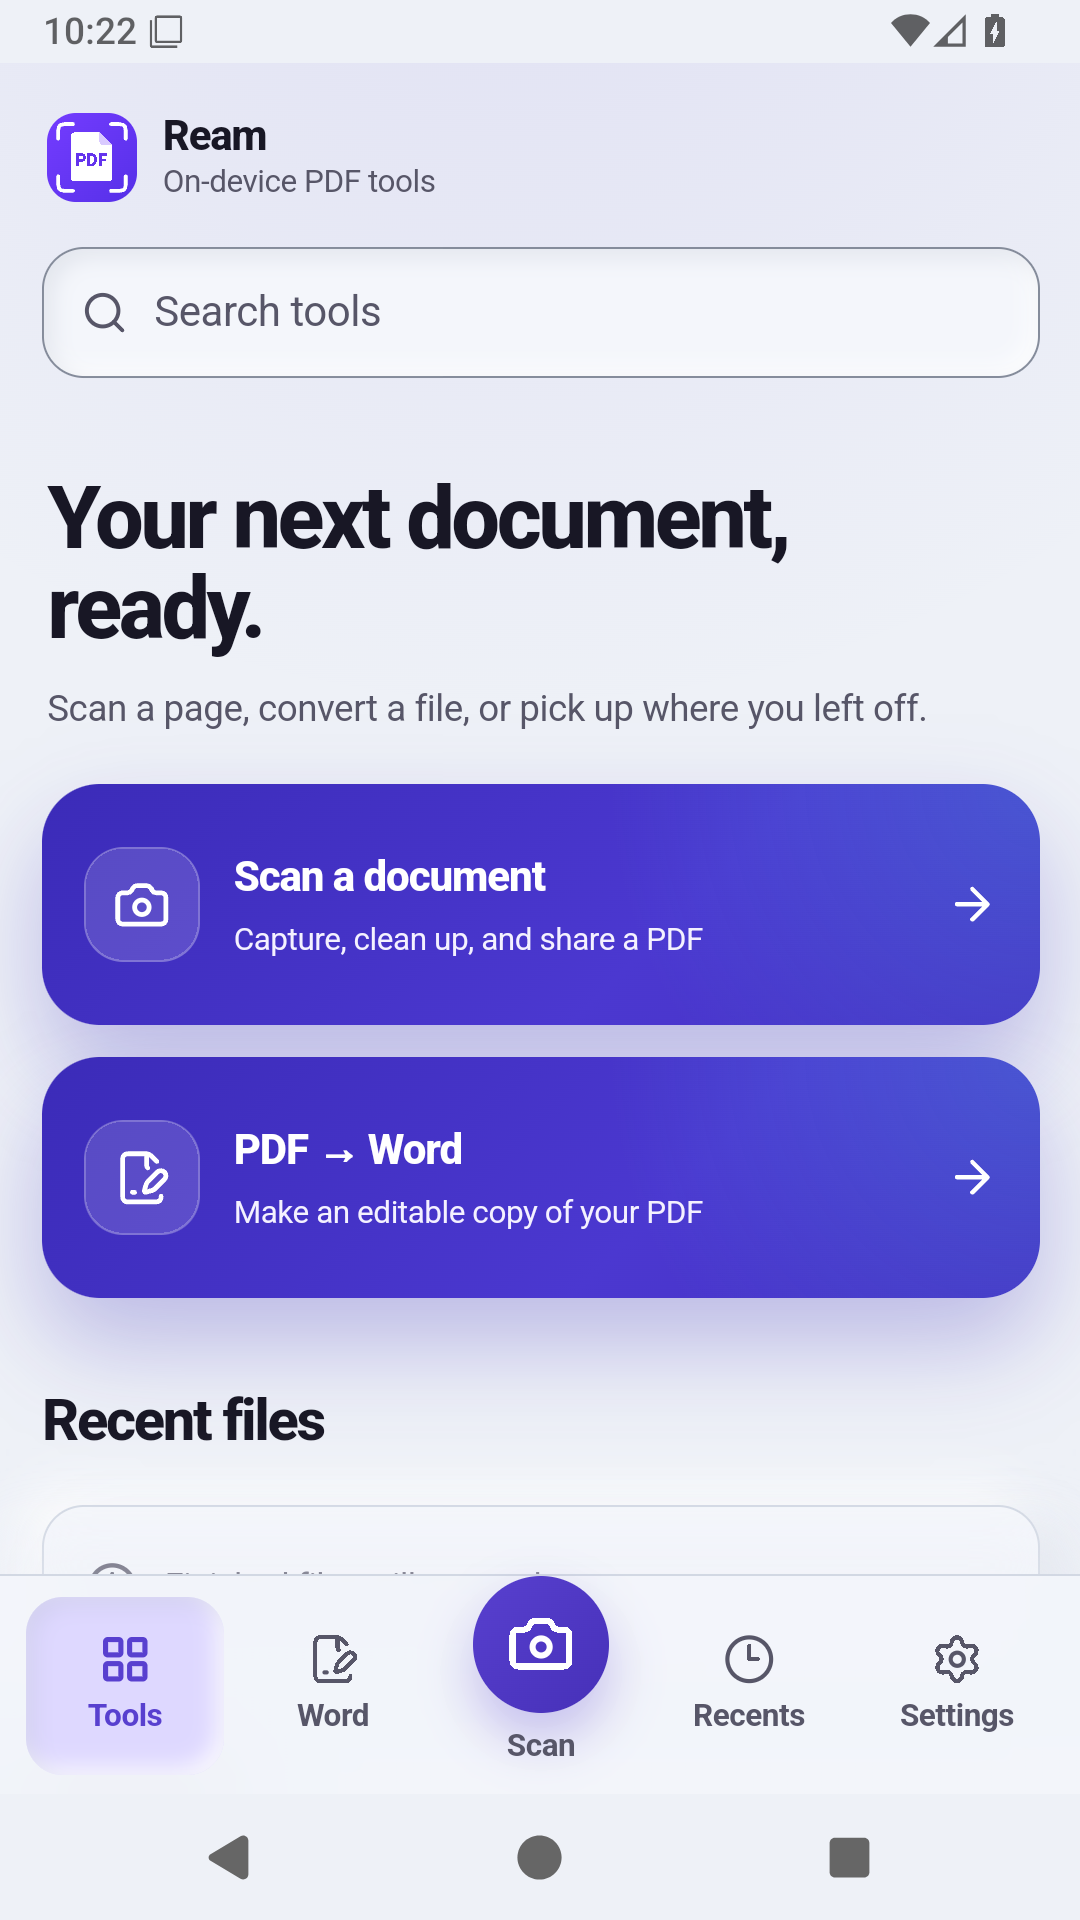
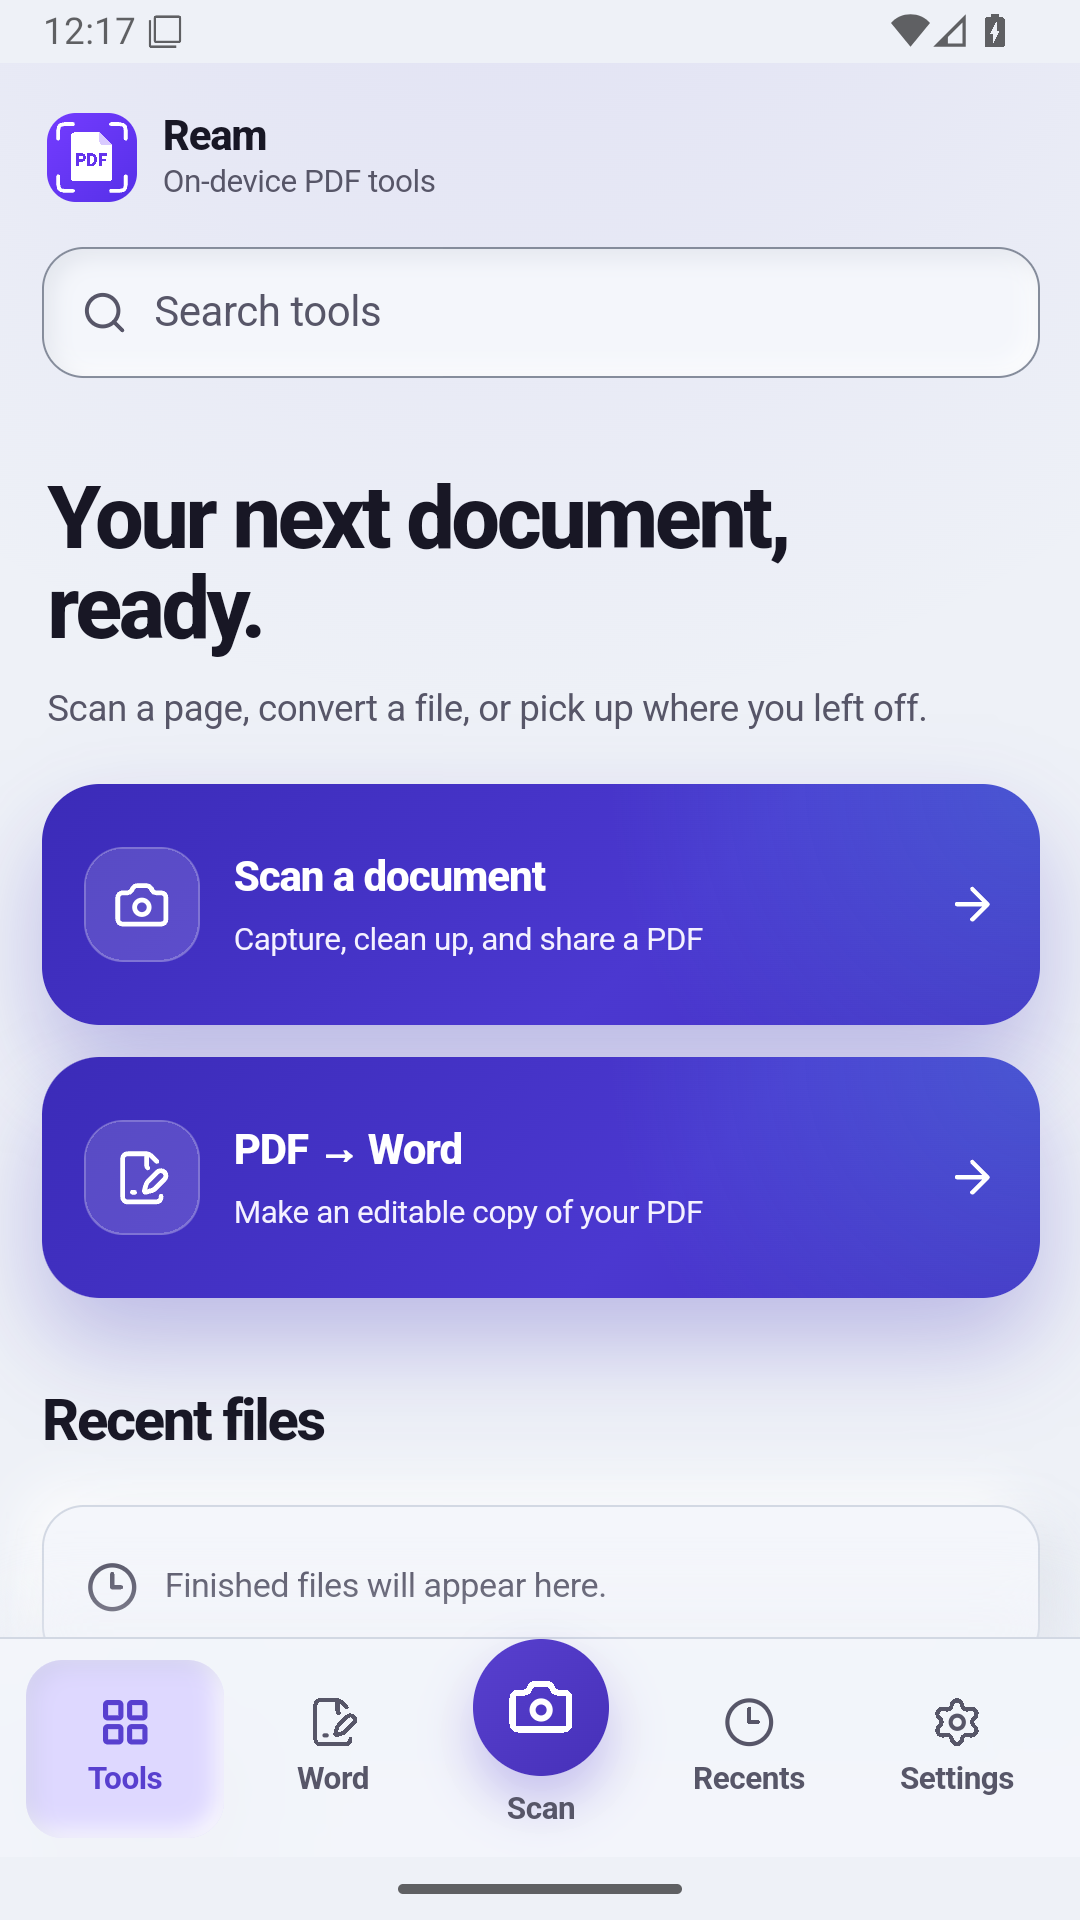
Promote verified Android store screenshots

diff --git a/android/app/src/androidTest/java/com/reampdf/mobile/StoreScreenshotInstrumentation.java b/android/app/src/androidTest/java/com/reampdf/mobile/StoreScreenshotInstrumentation.java
@@ -86,6 +86,17 @@ public class StoreScreenshotInstrumentation extends Instrumentation {
         until("Array.from(document.querySelectorAll('button')).some(b=>b.textContent.trim()==="+quoted+"&&!b.disabled)");
         js("Array.from(document.querySelectorAll('button')).find(b=>b.textContent.trim()==="+quoted+"&&!b.disabled).click()");
     }
+    private void untilVisualStateReady() throws Exception {
+        CountDownLatch latch=new CountDownLatch(1); AtomicReference<Boolean> found=new AtomicReference<>(false);
+        runOnMainSync(() -> {
+            WebView web=webView(activity.getWindow().getDecorView());
+            if(web==null){latch.countDown();return;}
+            found.set(true);
+            web.postVisualStateCallback(System.nanoTime(),new WebView.VisualStateCallback(){@Override public void onComplete(long requestId){latch.countDown();}});
+        });
+        assertTrue("WebView visual state timed out",latch.await(20,TimeUnit.SECONDS));
+        assertTrue("WebView was missing while waiting for a visual frame",found.get());
+    }
     private static String sha(byte[] data) throws Exception {
         StringBuilder out=new StringBuilder(); for(byte b:MessageDigest.getInstance("SHA-256").digest(data))out.append(String.format("%02x",b&255)); return out.toString();
     }
@@ -113,7 +124,7 @@ public class StoreScreenshotInstrumentation extends Instrumentation {
         return ads;
     }
     private void capture(String name) throws Exception {
-        until("document.fonts.status==='loaded'"); Thread.sleep(700);
+        until("document.fonts.status==='loaded'"); untilVisualStateReady();
         Bitmap bitmap=getUiAutomation().takeScreenshot();
         assertNotNull(bitmap);assertEquals(1080,bitmap.getWidth());assertEquals(1920,bitmap.getHeight());
         File file=new File(directory,name);assertFalse("Capture must not overwrite an image",file.exists());
@@ -182,13 +193,13 @@ public class StoreScreenshotInstrumentation extends Instrumentation {
         Intent launch=context.getPackageManager().getLaunchIntentForPackage(context.getPackageName());assertNotNull(launch);
         activity=startActivitySync(launch);
         try {
-            until("document.querySelector('.ps-home')");
+            until("!document.querySelector('#app-boot')&&(()=>{const e=document.querySelector('.ps-home');const r=e?.getBoundingClientRect();return r&&r.width>300&&r.height>500&&document.body.innerText.includes('Your next document, ready.')})()");
             capture("01-tools-home-1080x1920.png");
             Uri scanUri=Uri.parse("content://"+context.getPackageName()+".fileprovider/ream_exports/"+Uri.encode(scan.getName()));
             Intent review=new Intent(Intent.ACTION_SEND).setClassName(context,context.getPackageName()+".MainActivity").setType("image/png")
                 .putExtra(Intent.EXTRA_STREAM,scanUri).addFlags(Intent.FLAG_GRANT_READ_URI_PERMISSION|Intent.FLAG_ACTIVITY_NEW_TASK|Intent.FLAG_ACTIVITY_SINGLE_TOP);
             context.startActivity(review); clickText("Review images");
-            until("document.querySelector('.ps-scan-editor__image img')?.naturalWidth>0");
+            until("(()=>{const e=document.querySelector('.ps-scan-editor__image img');const r=e?.getBoundingClientRect();return e?.complete&&e.naturalWidth>500&&e.naturalHeight>500&&r&&r.width>180&&r.height>240})()");
             capture("02-scan-intake-1080x1920.png");
             Uri uri=Uri.parse("content://"+context.getPackageName()+".fileprovider/ream_exports/"+Uri.encode(fixture.getName()));
             Intent open=new Intent(Intent.ACTION_VIEW).setClassName(context,context.getPackageName()+".MainActivity")

diff --git a/store-assets/scripts/verify_ci_screenshots.py b/store-assets/scripts/verify_ci_screenshots.py
@@ -54,7 +54,8 @@ for record in manifest["screenshots"]:
             assert image.getchannel("A").getextrema() == (255, 255)
         rgb = image.convert("RGB")
         rgb.save(image_path, format="PNG")
-    record["sourceFramebufferPngSha256"] = source_hash
+    source_framebuffer_hash = record.setdefault("sourceFramebufferPngSha256", source_hash)
+    assert re.fullmatch(r"[0-9a-f]{64}", source_framebuffer_hash)
     record["sha256"] = hashlib.sha256(image_path.read_bytes()).hexdigest()
 manifest_path.write_text(json.dumps(manifest, indent=2) + "\n")
 print(f"Verified {len(manifest['screenshots'])} real release screenshots with native 1080x1920 pixels.")

diff --git a/docs/repository-audit-2026-09-29.md b/docs/repository-audit-2026-09-29.md
@@ -66,7 +66,7 @@ for a local candidate, not proof that the Play bundle was built from exact pre-a
 baseline `2f6e330`. Record the source commit, AAB/APK/mapping hashes, and signing
 certificate digest for every future Play upload.
 
-## Current validation blocker
+## Remediation status
 
 GitHub Verify [run 35107922071](https://github.com/shahzaib-574/pdf-suite/actions/runs/35107922071)
 failed at the audited code commit `2f6e330`. A fresh local
@@ -74,13 +74,23 @@ failed at the audited code commit `2f6e330`. A fresh local
 provenance is from version 1.1.1 (4), while the release identity is version 1.2.0
 (6). All later Android CI stages were skipped.
 
-This guard must not be loosened, and the old images must not be removed merely to
-take an absent-assets path. The truthful repair is to capture and visually review
-real, signed version 6 screens with Google test ads, then promote matching hashes
-and provenance. The existing guarded capture scripts can be used, or the dedicated
-API 36 capture workflow called for by the compliance notes can be added (it is not
-currently present under `.github/workflows`). Until matching version 6 evidence is
-promoted, exact-head verification is red.
+That guard was not loosened. Remediation advanced the post-upgrade candidate to
+1.2.1 (7), then protected API 36 run
+[36566379362](https://github.com/shahzaib-574/pdf-suite/actions/runs/36566379362)
+captured a signed, nondebuggable Google-test-ad APK from exact source
+`6b3ead375d7d039b7346452d2043f9d30dd9fcad`. Five useful frames were visually
+reviewed and selected with schema 2 source, signer, APK and test-ad provenance.
+The blank scan-editor frame was rejected rather than promoted. Original framebuffer
+PNGs and the original manifest are preserved separately from the losslessly
+normalized RGB store files, and the former 1.1.1 (4) selection is archived.
+
+Follow-up run
+[36568038787](https://github.com/shahzaib-574/pdf-suite/actions/runs/36568038787)
+passed signing, artifact, ELF/ZIP and screenshot-provenance checks. Its signed APK
+then crashed inside the official API 35 16 KB emulator instrumentation before a
+success marker. That native smoke remains an explicit red gate while crash-buffer,
+logcat and process-exit diagnostics are added; it is not treated as proof of 16 KB
+compatibility. No Play or OTA publication occurred.
 
 ## Checks run during this audit
 
@@ -91,16 +101,20 @@ promoted, exact-head verification is red.
   old `Reader` heading on the viewer route. An isolated diagnostic confirmed the
   viewer actually opened the four-page fixture and rendered all four pages; the
   harness locator is stale and should be corrected in a separate code change.
-- Failed as intentionally preserved: `verify:store-assets`, for the version 4 versus
-  version 6 provenance mismatch described above.
+- Failed at the pre-remediation baseline: `verify:store-assets`, for the version 4
+  versus version 6 provenance mismatch described above. The reviewed 1.2.1 (7)
+  five-image selection now passes the local store verifier and schema 2 provenance
+  checks; exact-head hosted Verify is still required after promotion is committed.
 - Not run: a fresh Android build, signing, emulator/device checks, and Play upload.
   Java and ADB were not available on this shell's PATH, and the limited free-disk
   margin made a new heavy Android build inappropriate for a documentation audit.
 
 ## Upgrade priorities
 
-1. **Repair release evidence and return exact-head CI to green.** Complete the
-   version 6 capture/provenance work above before changing dependencies.
+1. **Finish exact-head release evidence.** The genuine 1.2.1 (7) screenshot
+   selection is prepared; run exact-head hosted Verify after promotion, retain the
+   historical version 6 provenance gap, and keep source/hash/signer manifests for
+   every future Play candidate.
 2. **Keep the current Android baseline.** `compileSdkVersion` and
    `targetSdkVersion` are already 36. Google Play requires API 36 for new apps and
    updates from 31 August 2026. Capacitor 8 also documents Node 22+, Android Studio

diff --git a/store-assets/PLAY_SETUP_STATUS.md b/store-assets/PLAY_SETUP_STATUS.md
@@ -12,12 +12,20 @@ or approval.
 
 The repository has no version 6 release manifest or Play-downloaded AAB hash to
 prove that the uploaded bundle is byte-for-byte from exact pre-audit baseline
-`2f6e330`. GitHub Verify
-[run 35107922071](https://github.com/shahzaib-574/pdf-suite/actions/runs/35107922071)
-at that audited code commit also fails because selected screenshot provenance is
-version 1.1.1 (4), not 1.2.0 (6). Preserve the historical images and recapture
-signed version 6 screens with matching hashes/provenance; do not weaken the version
-gate. See the
+`2f6e330`. That historical gap remains explicit and is not rewritten.
+
+The next candidate is **1.2.1 (7)**. Protected screenshot
+[run 36566379362](https://github.com/shahzaib-574/pdf-suite/actions/runs/36566379362)
+built a signed, nondebuggable Google-test-ad APK from exact source
+`6b3ead375d7d039b7346452d2043f9d30dd9fcad`. Five useful API 36 captures were
+visually reviewed and selected with schema 2 source, signer, APK and test-ad
+provenance; the blank scan-editor frame was rejected and retained only as original
+evidence. The former 1.1.1 (4) selection is archived rather than overwritten.
+Follow-up [run 36568038787](https://github.com/shahzaib-574/pdf-suite/actions/runs/36568038787)
+passed signing, artifact, ELF/ZIP and screenshot-provenance checks, but its official
+API 35 16 KB emulator instrumentation process crashed before a success marker.
+That signed 16 KB smoke remains red pending captured crash diagnostics. No 1.2.1
+bundle has been uploaded to Play. See the
 [repository and upgrade audit](../docs/repository-audit-2026-09-29.md).
 
 **1.2.0 candidate note (16 September 2026):** the repository now prepares an ad-supported candidate. Play Console has saved the Contains ads, Advertising ID, Data safety, and target-audience declarations; the selected audience is 13-15, 16-17, and 18+. Play warns that some users in these groups are children depending on country. The app therefore uses under-age-of-consent treatment for every request, a General ad-content ceiling, and no COPPA child-directed flag. The European privacy message is published in AdMob. The US-state message and final Play review remain external gates, and none of these saved declarations constitutes approval.
@@ -37,7 +45,7 @@ The August quality notification announces future requirements, rather than a cur
 
 ## Ream
 
-Latest delivery: **1.1.1 (4)** is now Active / Available to internal testers, published at 3:31 AM Asia/Karachi on 10 September 2026. See [camera update record](PLAY_UPDATE_1.1.1.md). The 1.1.0 details below are retained as the initial release history.
+Historical internal delivery: **1.1.1 (4)** became Active / Available to internal testers at 3:31 AM Asia/Karachi on 10 September 2026. See [camera update record](PLAY_UPDATE_1.1.1.md). The later closed Alpha 1.2.0 (6) observation is recorded above; the 1.1.0 details below are retained as the initial release history.
 
 The publisher confirmed the policy/export declarations after the compliance review. Ream: PDF Tools & Scanner, `com.reampdf.mobile`, English (US), App and Free was created. Version 3 (1.1.0) is now published to the active internal testing track and shown as available to internal testers. See [verified upload record](PLAY_UPLOAD_2026-09-10.md) for the release and tester links.
 

diff --git a/store-assets/screenshots/CAPTURE_PLAN.md b/store-assets/screenshots/CAPTURE_PLAN.md
@@ -32,7 +32,15 @@ python store-assets/scripts/generate_screenshot_fixture.py
 npm run pdf-selfcheck
 ```
 
-## Guarded Windows capture workflow
+## Protected capture workflow
+
+Version 7 and later store evidence must come from the protected GitHub Actions
+`store-screenshots.yml` workflow. It builds the exact main commit with protected
+signing, Google test ads and consent geography `OTHER`, verifies the actual APK
+identity and signer, captures API 36 framebuffer pixels, and emits schema 2
+provenance. Do not recreate or hand-edit those attestations.
+
+## Guarded Windows validation and legacy capture helper
 
 Use the repository helper instead of shell redirection, browser screenshots, or
 mockups. It reads the emulator framebuffer through `adb exec-out screencap -p`,
@@ -62,21 +70,21 @@ Android SDK Build-Tools; pass `-ApksignerPath` only when automatic discovery doe
 not find it. `apksigner` verifies the installed base APK and supplies the signing
 certificate SHA-256 digest used for provenance.
 
-After each successful capture, the helper atomically creates or updates
-`capture-provenance.json`. Version 7 and later evidence uses schema 2 and records
-the exact source commit and attested Google test-ad configuration in addition to
-the package and exact version, API level,
-emulator manufacturer/model/device name and serial, UTC capture time, signing
-certificate SHA-256, installed base-APK SHA-256, and a SHA-256 for every covered image. Partial capture runs
-may extend the same manifest only with the same emulator identity, app version,
-and signing certificate. Use a new empty output directory when any of those
-change; existing screenshots without a manifest are intentionally not adopted.
+For legacy candidates, each successful interactive capture atomically creates or
+updates `capture-provenance.json`. The helper intentionally refuses to generate
+version 7 or later evidence because it cannot independently attest the source
+commit and packaged test-ad mode; use the protected workflow above. Its validation
+path accepts schema 2 and checks the exact source commit format, artifact mode,
+configured AdMob app ID, Google test banner, testing flag and `OTHER` geography in
+addition to package/version/API, device, signing certificate, installed APK and
+image hashes. Existing screenshots without a manifest are intentionally not
+adopted.
 
 The helper refuses to overwrite a capture. Move an existing image aside only
 after reviewing it, or validate the current set without connecting a device:
 
 ```powershell
-pwsh -File store-assets/scripts/capture_android_screenshots.ps1 -ValidateOnly
+pwsh -Command "& 'store-assets/scripts/capture_android_screenshots.ps1' -ValidateOnly -State @(1,3,4,5,6)"
 ```
 
 Validation decodes each requested PNG and checks its exact filename, dimensions,

diff --git a/store-assets/screenshots/ALT_TEXT_TEMPLATE.md b/store-assets/screenshots/ALT_TEXT_TEMPLATE.md
@@ -1,9 +1,11 @@
 # Screenshot alt-text review sheet
 
-Reviewed native version 1.1.1 (4), workflow 34411429953, on 10 September 2026. Three unedited captures are selected. The reader frame had a partly retracted system status bar; scan/organize frames are not selected for this set. All six original capture records remain in CI_CAPTURE_SOURCE.json and the workflow artifact. Version 1.1.0's reviewed images and provenance are preserved in `../archive/screenshots-1.1.0/`.
+Reviewed native version 1.2.1 (7), workflow 36566379362, on 29 September 2026. Five unedited, signed-release captures from source commit `6b3ead375d7d039b7346452d2043f9d30dd9fcad` are selected. The scan-editor frame was rejected because its page did not render visibly; its original capture is retained in `../archive/screenshots-1.2.1-run4-raw/`, while `CI_CAPTURE_SOURCE.json` maps original framebuffer hashes to normalized RGB hashes. Version 1.1.1's reviewed images and provenance are preserved in `../archive/screenshots-1.1.1/`.
 
 | File | Alt text |
 | --- | --- |
 | `01-tools-home-1080x1920.png` | Ream home with tool search, Scan a document and PDF to Word actions, and navigation tabs. |
-| `03-pdf-to-word-1080x1920.png` | PDF to Word with a sample PDF selected, English OCR language and the Convert to Word action. |
-| `06-recents-1080x1920.png` | Recent sample Word, PDF and image files with search, save, rename and delete actions. |
+| `03-pdf-to-word-1080x1920.png` | PDF to Word with a synthetic sample PDF selected, English OCR language and the Convert to Word action. |
+| `04-pdf-reader-1080x1920.png` | PDF reader showing the first page of a five-page synthetic document with zoom, search, share and download controls. |
+| `05-organize-pages-1080x1920.png` | Organize pages showing two synthetic page thumbnails with move, rotate and remove controls plus bulk actions. |
+| `06-recents-1080x1920.png` | Recent synthetic Word, PDF and image files with search, save, rename and delete actions. |

diff --git a/store-assets/archive/screenshots-1.1.1/ALT_TEXT_TEMPLATE.md b/store-assets/archive/screenshots-1.1.1/ALT_TEXT_TEMPLATE.md
@@ -1,0 +1,9 @@
+# Screenshot alt-text review sheet
+
+Reviewed native version 1.1.1 (4), workflow 34411429953, on 10 September 2026. Three unedited captures are selected. The reader frame had a partly retracted system status bar; scan/organize frames are not selected for this set. All six original capture records remain in CI_CAPTURE_SOURCE.json and the workflow artifact. Version 1.1.0's reviewed images and provenance are preserved in `../archive/screenshots-1.1.0/`.
+
+| File | Alt text |
+| --- | --- |
+| `01-tools-home-1080x1920.png` | Ream home with tool search, Scan a document and PDF to Word actions, and navigation tabs. |
+| `03-pdf-to-word-1080x1920.png` | PDF to Word with a sample PDF selected, English OCR language and the Convert to Word action. |
+| `06-recents-1080x1920.png` | Recent sample Word, PDF and image files with search, save, rename and delete actions. |

diff --git a/store-assets/archive/screenshots-1.2.1-run4-raw/README.md b/store-assets/archive/screenshots-1.2.1-run4-raw/README.md
@@ -1,0 +1,13 @@
+# Original API 36 capture evidence
+
+These are the unmodified framebuffer PNGs and original manifest from protected
+GitHub Actions screenshot run
+[`36566379362`](https://github.com/shahzaib-574/pdf-suite/actions/runs/36566379362),
+built from source commit `6b3ead375d7d039b7346452d2043f9d30dd9fcad`.
+
+The active store PNGs are losslessly decoded and saved as opaque 24-bit RGB for
+Google Play. `store-assets/screenshots/CI_CAPTURE_SOURCE.json` records each active
+normalized PNG hash as `sha256` and preserves this archive's original framebuffer
+PNG hash as `sourceFramebufferPngSha256`. The scan-editor frame is retained here
+as original evidence but was rejected from the selected store set because its
+page did not render visibly.
